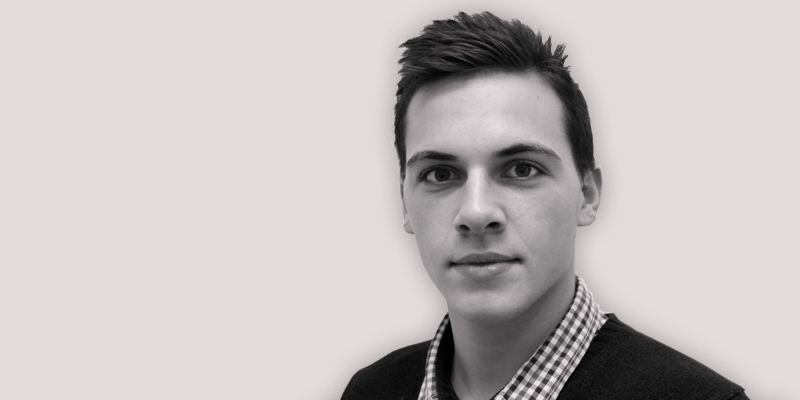
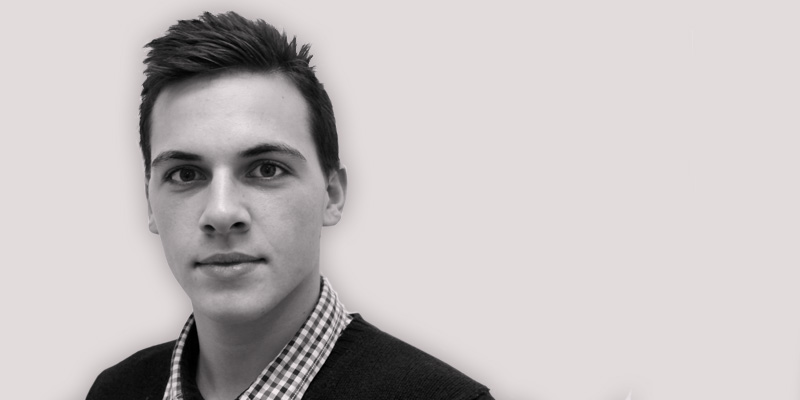
prepped extra page Partners
+updated team pics

diff --git a/_site/Partners/index.html b/_site/Partners/index.html
@@ -4,12 +4,12 @@
   <head>
   <meta charset="utf-8">
   <meta http-equiv="X-UA-Compatible" content="IE=edge">
-  <title>Testimonials</title>
+  <title>Partners</title>
   <meta name="viewport" content="width=device-width">
   <meta name="description" content="site for Swiss Wood Solutions">
   <link rel="stylesheet" href="/swisswoodsolutions/assets/css/styles.css">
   <link href="https://fonts.googleapis.com/css?family=Fira+Sans:300,300i,400,400i,600,600i&amp;subset=latin-ext" rel="stylesheet">
-  <link rel="canonical" href="/Testimonials/">
+  <link rel="canonical" href="/Partners/">
 
 </head>
 
@@ -46,11 +46,11 @@
                       <a href="/swisswoodsolutions/About/">About </a>
                     </li>
                   
-                    <li class="">
+                    <li class="active">
                       <a href="/swisswoodsolutions/Partners/">Partners </a>
                     </li>
                   
-                    <li class="active">
+                    <li class="">
                       <a href="/swisswoodsolutions/Testimonials/">Testimonials </a>
                     </li>
                   
@@ -63,41 +63,24 @@
 </header>
 
     <main>
-      <div class="full-width-kenburns">
-    <div class="wrap-bg-image">
-        <h1>«Sonowood has the potential to not only match the quality of ebony, but to even excel it.»</h1>
-        <h3>George Stoppani, violin manufacturer from Manchester</h3>
-        <p class="arrow-down"><img src="/swisswoodsolutions/assets/images/arrow-d-white.svg" /></p>
-    </div>
-    <img srcset="/swisswoodsolutions/assets/images/testimonial_2x.jpg" src="/swisswoodsolutions/assets/images/testimonial.jpg" alt="close up of violin with Sonowood" />
-</div>
-<div class="full-width">
-    <div class="wrap-grid-2">
-        <h2>What the professionals say</h2>
-        <p>«I have not yet seen a material with such a low damping as Sonowood.»<br />
-        <strong>Boris Haug, violin manufacturer from Suhr, Switzerland</strong>
-        </p>
-        <p>«Sonowood is a very compact material. Nevertheless it is easier to plane and shape than ebony. A pleasant smooth surface results.»
-        <br /><strong>Philip Ihle, violin manufacturer from London</strong>
-        </p>
-        <p>«The viola featuring a Sonowood fingerboard is easier to play in the low-pitched tones and thus allows more artistic freedom. In the high-pitched tones, the viola lost its sharpness and gained softness. Consequently, the articulation is simplified and more tone colors can be played.»<br />
-        <strong>Sarah Weilenmann, member of Pacific Quartet Vienna</strong>
-        </p>
-    </div>
-</div>
-<div class="full-width-grey">
-    <div class="wrap-grid-2">
-        <h2 class="align-center-italic">«The sound of my viola has improved thanks to the incorporation of a Sonowood fingerboard. The instrument now sounds warmer, richer and more open. Prior to the change, I was a bit nervous since I did not know what to expect from this novel material. Now I am very happy and relieved.»</h2>
-        <p class="align-center"><strong>Chin-Ting Huang, member of the Pacific Quartet Vienna</strong></p>
-    </div>
-</div>
-<div class="full-width">
-    <div class="wrap-grid-2">
-        <p>«Sonowood offers such a straightforward workability, it is sensational.»<br />
-        <strong>Eric Fouilhé, instrument manufacturer from Valence, France</strong></p>
-        <p>«Sonowood has the potential to not only match the quality of ebony, but to even excel it.»<br />
-        <strong>George Stoppani, violin manufacturer from Manchester</strong></p>
-        <p class="extra-margin-top"><a class="btn-red" href="/swisswoodsolutions/Contact">Get in touch with us</a></p>
+      <div class="full-width">
+      <img srcset="/swisswoodsolutions/assets/images/team-cover_2x.jpg" src="/swisswoodsolutions/assets/images/team-cover.jpg" alt="densified wood samples" class="coverimg" />
+      <div class="wrap-grid-3">
+      <h2>Our Professional Partners in Music</h2>
+          <ul>
+              <li>
+                <img src="/swisswoodsolutions/assets/images/partner_wilhelm.jpg" alt="Wilhelm Geigenbau instrument" />
+                <a href="http://www.wilhelm-geigenbau.ch" target="blank">Wilhelm Geigenbau</a>
+                </li>
+              <li>
+                <img src="/swisswoodsolutions/assets/images/partner_stempfle.jpg" alt="Robert Stempfle Holzblasinstrumenten" />
+                <a href="https://stempfle.ch/de/" target="blank">Robert Stempfle, Holzblasinstrumenten</a>
+                </li>
+              <li>
+                <img src="/swisswoodsolutions/assets/images/partner_pqv.jpg" alt="Pacific Quartet Vienna" />
+                <a href="http://pacificquartet.com" target="blank">Pacific Quartet Vienna</a>
+              </li>
+          </ul>
       </div>
   </div>
 

diff --git a/_site/index.html b/_site/index.html
@@ -58,6 +58,10 @@
                     </li>
                   
                     <li class="">
+                      <a href="/swisswoodsolutions/Partners/">Partners </a>
+                    </li>
+                  
+                    <li class="">
                       <a href="/swisswoodsolutions/Testimonials/">Testimonials </a>
                     </li>
                   
@@ -101,7 +105,7 @@
             <img srcset="/swisswoodsolutions/assets/images/violin-01_2x.jpg"
                  src="/swisswoodsolutions/assets/images/violin-01.jpg" alt="picture sonowood maple">
             <h3>Sonowood</h3>
-            <p>Our product line for the music industry matches the properties of tropical woods.</p>
+            <p>Our product line for the music industry matches the properties of tropical wood.</p>
             <a class="btn" href="/swisswoodsolutions/Sonowood">Discover more</a>
         </li>
         <li>

diff --git a/index.html b/index.html
@@ -34,7 +34,7 @@ order: 1
             <img srcset="/swisswoodsolutions/assets/images/violin-01_2x.jpg"
                  src="/swisswoodsolutions/assets/images/violin-01.jpg" alt="picture sonowood maple">
             <h3>Sonowood</h3>
-            <p>Our product line for the music industry matches the properties of tropical woods.</p>
+            <p>Our product line for the music industry matches the properties of tropical wood.</p>
             <a class="btn" href="/swisswoodsolutions/Sonowood">Discover more</a>
         </li>
         <li>

diff --git a/_site/assets/css/styles.css b/_site/assets/css/styles.css
@@ -15,7 +15,6 @@ a:hover {
 p {
   margin-bottom: 2em;
   line-height: 1.35em;
-  letter-spacing: -0.25px;
 }
 strong {
   font-weight: 600;
@@ -181,12 +180,12 @@ header::after {
     .nav li {
       display: inline-block;
       margin-right: 1px;
-      padding: 0 0 0 1.5em;
+      padding: 0 0 0 1em;
     }
     .nav a {
       color: #c1574c;
       font-weight: 300;
-      text-decoration:none;
+      text-decoration: none;
     }
     .nav .active a {
       border-bottom: 5px solid #c1574c;

diff --git a/assets/css/styles.css b/assets/css/styles.css
@@ -15,7 +15,6 @@ a:hover {
 p {
   margin-bottom: 2em;
   line-height: 1.35em;
-  letter-spacing: -0.25px;
 }
 strong {
   font-weight: 600;
@@ -181,12 +180,12 @@ header::after {
     .nav li {
       display: inline-block;
       margin-right: 1px;
-      padding: 0 0 0 1.5em;
+      padding: 0 0 0 1em;
     }
     .nav a {
       color: #c1574c;
       font-weight: 300;
-      text-decoration:none;
+      text-decoration: none;
     }
     .nav .active a {
       border-bottom: 5px solid #c1574c;

diff --git a/_site/About/index.html b/_site/About/index.html
@@ -47,6 +47,10 @@
                     </li>
                   
                     <li class="">
+                      <a href="/swisswoodsolutions/Partners/">Partners </a>
+                    </li>
+                  
+                    <li class="">
                       <a href="/swisswoodsolutions/Testimonials/">Testimonials </a>
                     </li>
                   

diff --git a/_site/Contact/index.html b/_site/Contact/index.html
@@ -47,6 +47,10 @@
                     </li>
                   
                     <li class="">
+                      <a href="/swisswoodsolutions/Partners/">Partners </a>
+                    </li>
+                  
+                    <li class="">
                       <a href="/swisswoodsolutions/Testimonials/">Testimonials </a>
                     </li>
                   

diff --git a/_site/News/index.html b/_site/News/index.html
@@ -47,6 +47,10 @@
                     </li>
                   
                     <li class="">
+                      <a href="/swisswoodsolutions/Partners/">Partners </a>
+                    </li>
+                  
+                    <li class="">
                       <a href="/swisswoodsolutions/Testimonials/">Testimonials </a>
                     </li>
                   

diff --git a/_site/Sonowood/index.html b/_site/Sonowood/index.html
@@ -58,6 +58,10 @@
                     </li>
                   
                     <li class="">
+                      <a href="/swisswoodsolutions/Partners/">Partners </a>
+                    </li>
+                  
+                    <li class="">
                       <a href="/swisswoodsolutions/Testimonials/">Testimonials </a>
                     </li>
                   

diff --git a/_site/Support/index.html b/_site/Support/index.html
@@ -47,6 +47,10 @@
                     </li>
                   
                     <li class="">
+                      <a href="/swisswoodsolutions/Partners/">Partners </a>
+                    </li>
+                  
+                    <li class="">
                       <a href="/swisswoodsolutions/Testimonials/">Testimonials </a>
                     </li>
                   

diff --git a/Partners.md b/Partners.md
@@ -1,0 +1,29 @@
+---
+layout: standardpage
+title: 'Partners'
+order: 6
+---
+
+<div class="full-width">
+      <img srcset="/swisswoodsolutions/assets/images/team-cover_2x.jpg" src="/swisswoodsolutions/assets/images/team-cover.jpg" alt="densified wood samples" class="coverimg">
+      <div class="wrap-grid-3">
+      <h2>Our Professional Partners in Music</h2>
+          <ul>
+              <li>
+                <img src="/swisswoodsolutions/assets/images/partner_wilhelm.jpg"
+                alt="Wilhelm Geigenbau instrument">
+                <a href="http://www.wilhelm-geigenbau.ch" target="blank">Wilhelm Geigenbau</a>
+                </li>
+              <li>
+                <img src="/swisswoodsolutions/assets/images/partner_stempfle.jpg"
+                alt="Robert Stempfle Holzblasinstrumenten">
+                <a href="https://stempfle.ch/de/" target="blank">Robert Stempfle, Holzblasinstrumenten</a>
+                </li>
+              <li>
+                <img src="/swisswoodsolutions/assets/images/partner_pqv.jpg"
+                alt="Pacific Quartet Vienna">
+                <a href="http://pacificquartet.com" target="blank">Pacific Quartet Vienna</a>
+              </li>
+          </ul>
+      </div>
+  </div>

diff --git a/Contact.md b/Contact.md
@@ -1,7 +1,7 @@
 ---
 layout: standardpage
 title: 'Contact'
-order: 8
+order: 9
 ---
 <div class="full-width">
         <img srcset="/swisswoodsolutions/assets/images/contact_2x.jpg" src="/swisswoodsolutions/assets/images/contact.jpg" alt="densified wood samples" class="coverimg">
